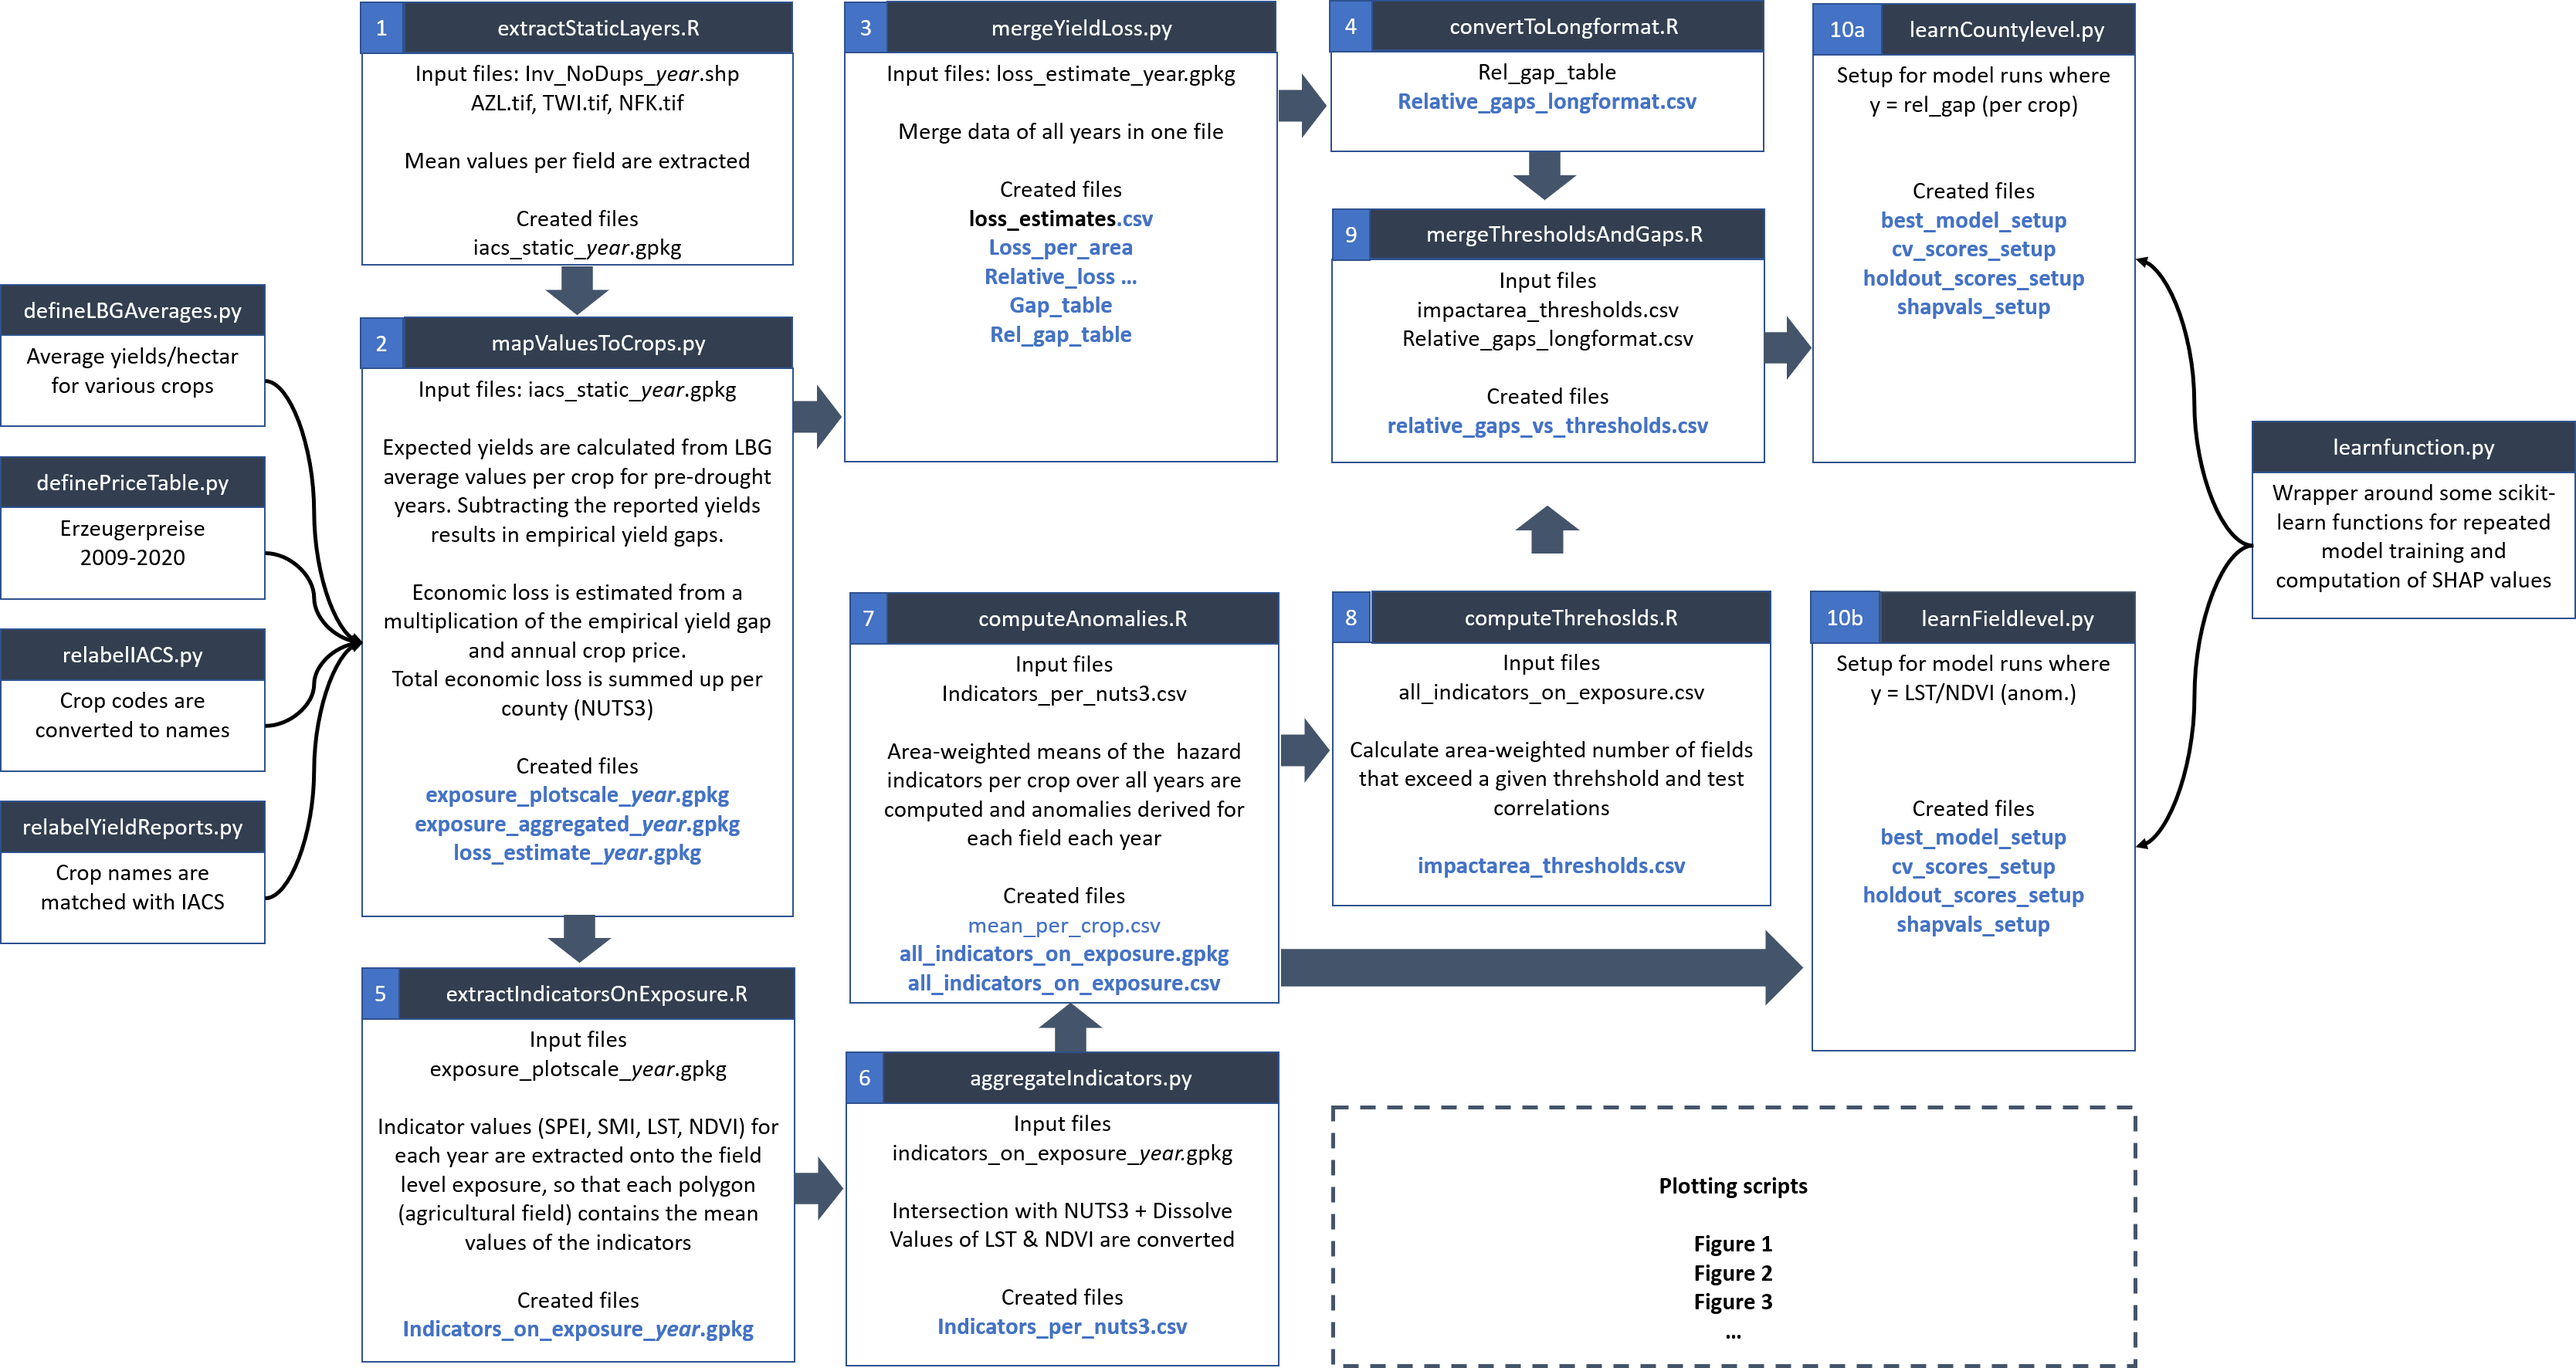
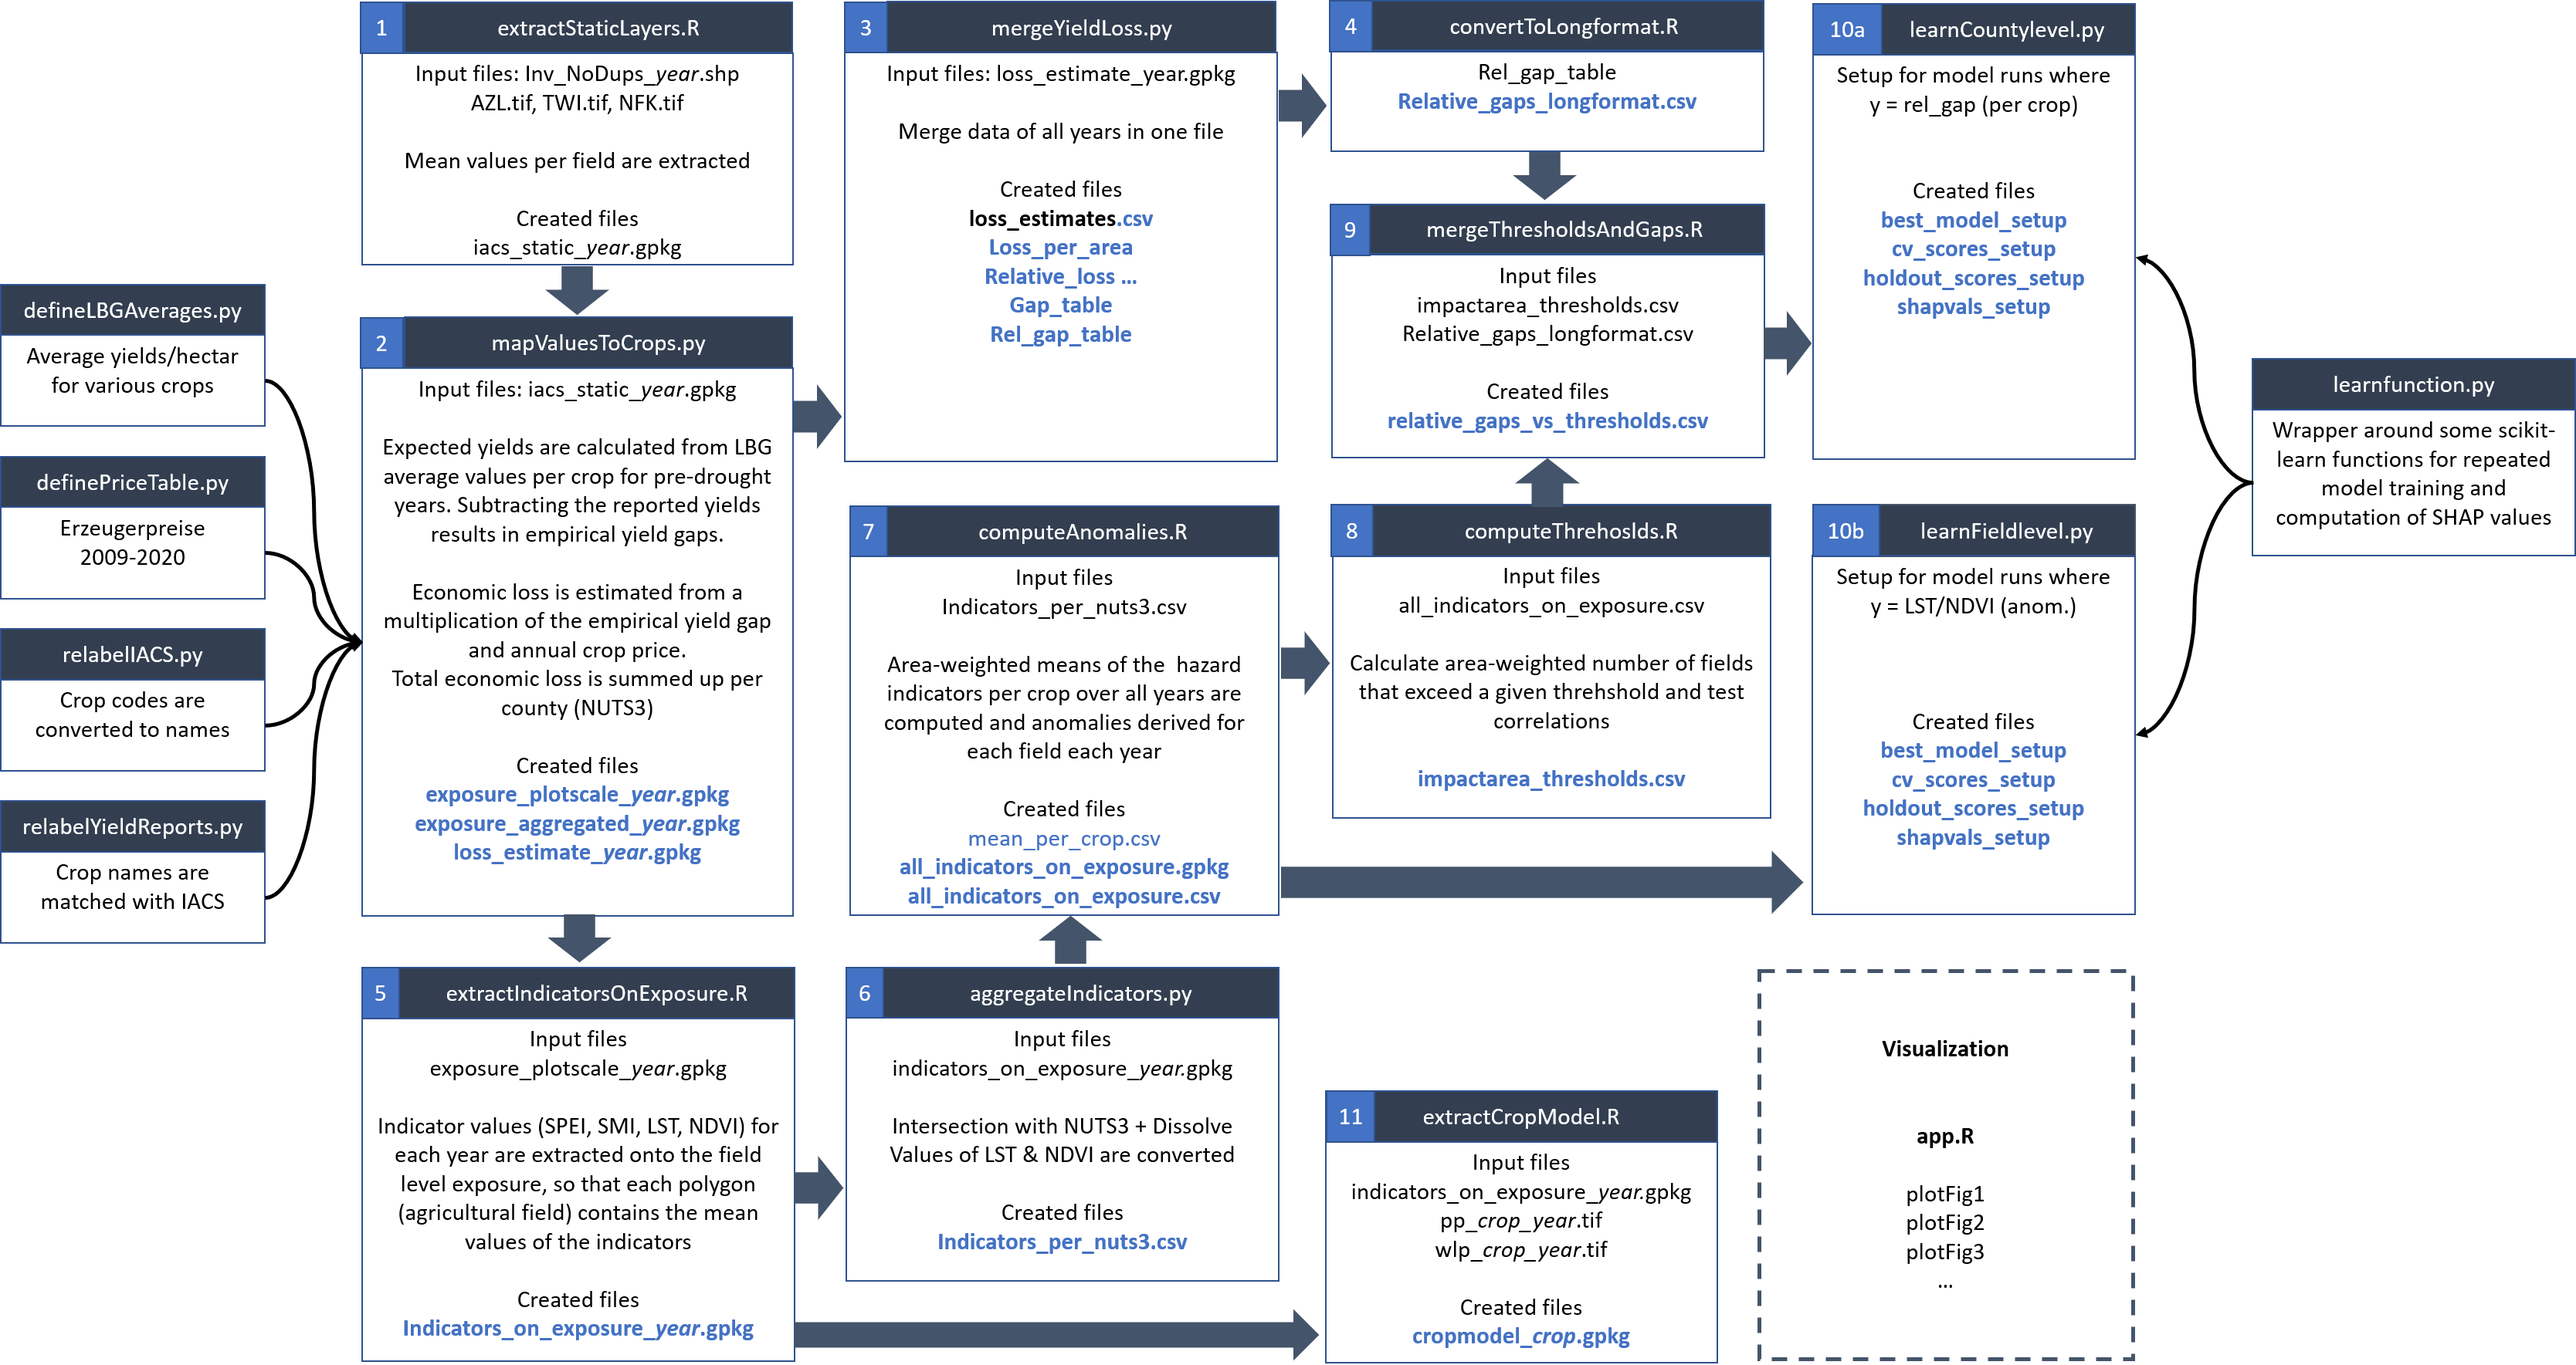
documentation

diff --git a/preprocessing/exposure/definePriceTableAMI.py b/preprocessing/exposure/definePriceTableAMI.py
@@ -1,6 +1,7 @@
 import pandas as pd
 
-prices = pd.read_csv("D:/Seafile/Meine Bibliothek/DroughtRiskPaper/yield_reports_and_tables/prices_ami.csv", delimiter=";", decimal=",", index_col=0)
+# read price data (not public) and match units
+prices = pd.read_csv("../../data/raw/tables/prices_ami.csv", delimiter=";", decimal=",", index_col=0)
 prices = prices.divide(10)
 prices.loc["potatoes",] = prices.loc["potatoes",].multiply(10)
 prices.loc["potatoes_starch",] = prices.loc["potatoes_starch",].multiply(10)

diff --git a/preprocessing/exposure/defineLBGAverages.py b/preprocessing/exposure/defineLBGAverages.py
@@ -2,8 +2,7 @@ import numpy as np
 import pandas as pd
 
 
-# 2010-2014
-#dt/ha, bei silomais brutto dt TM/ha
+# 2010-2014 in dt/ha
 winter_rye       = {'lbg1': 63, 'lbg2': 55, 'lbg3': 43, 'lbg4': 35, 'lbg5': 25}
 winter_wheat     = {'lbg1': 77, 'lbg2': 65, 'lbg3': 50, 'lbg4': 38, 'lbg5': 23}
 winter_barley    = {'lbg1': 75, 'lbg2': 63, 'lbg3': 50, 'lbg4': 36, 'lbg5': 25}

diff --git a/README.md b/README.md
@@ -1,15 +1,10 @@
 # brandenburg-drought-study
 Scripts and data related to the journal paper: "Exploring drought hazard, vulnerability, and impacts to agriculture in Brandenburg"
 
+Created during the transdisciplinary research project [CliWaC](https://www.cliwac.de/), funded by the [Einstein Foundation](https://www.einsteinfoundation.de/en/) and [Berlin University Alliance](https://www.berlin-university-alliance.de/en/index.html).
 
-Some parts of the processing are coded in Python, others in R. Reasons for this mix are implementation details of specific operations. The flowchart visualizes in which order the scripts have been used to create the results described in the paper.
+Some parts of the processing are coded in Python, others in R. Reasons for this mix are implementation details of specific operations. The flowchart visualizes in which order the scripts have been used to create the results described in the paper. In "data/processed" the results of the entire preprocessing chain are published. These files are sufficient to reproduce the machine learning part and the figures included in the main article. "app.R" creates an interactive data visualization (R-Shiny) to explore spatiotemporal patterns of drought-related indicators. It can be run locally.
 
 ![](scriptflow.png)
 
-The Python environment is documented via the environment.yml file, while the R environemnt is documented in the renv.lock file.
-
-In "data/processed" the results of the entire preprocessing chain are published. These files are sufficient to reproduce the machine learning part and the figures of the paper.
-
-Raw data and intermediate results are not uploaded due to file size. Most of the raw data is open data, and all sources have been cited to the best of our knowledge.
-
-Raw data comprises shapesfiles on crops from the Integrated Administration and Control System (IACS), tables on average crop yield per soil quality range (LBG) from non-drought years, farm level prices, and reported yields on county level, as well as a folder of rasters containing the raw indicator values: static layers (AZL, TWI, NFK), annual mid growing season means (LST, NDVI), and monthly values (SPEI, SMI). For consistency with the paper, indicator names in the code are also in uppercase.
+Raw data and intermediate results are not uploaded due to file size. Most of the raw data is open data, and all sources have been cited to the best of our knowledge. Raw data comprises shapesfiles on crops from the Integrated Administration and Control System (IACS), tables on average crop yield per soil quality range (LBG) from non-drought years, farm level prices, and reported yields on county level, as well as a folder of rasters containing the raw indicator values: static layers (AZL, TWI, NFK), annual mid growing season means (LST, NDVI), and monthly values (SPEI, SMI). For consistency with the paper, indicator names in the code are also in uppercase.
